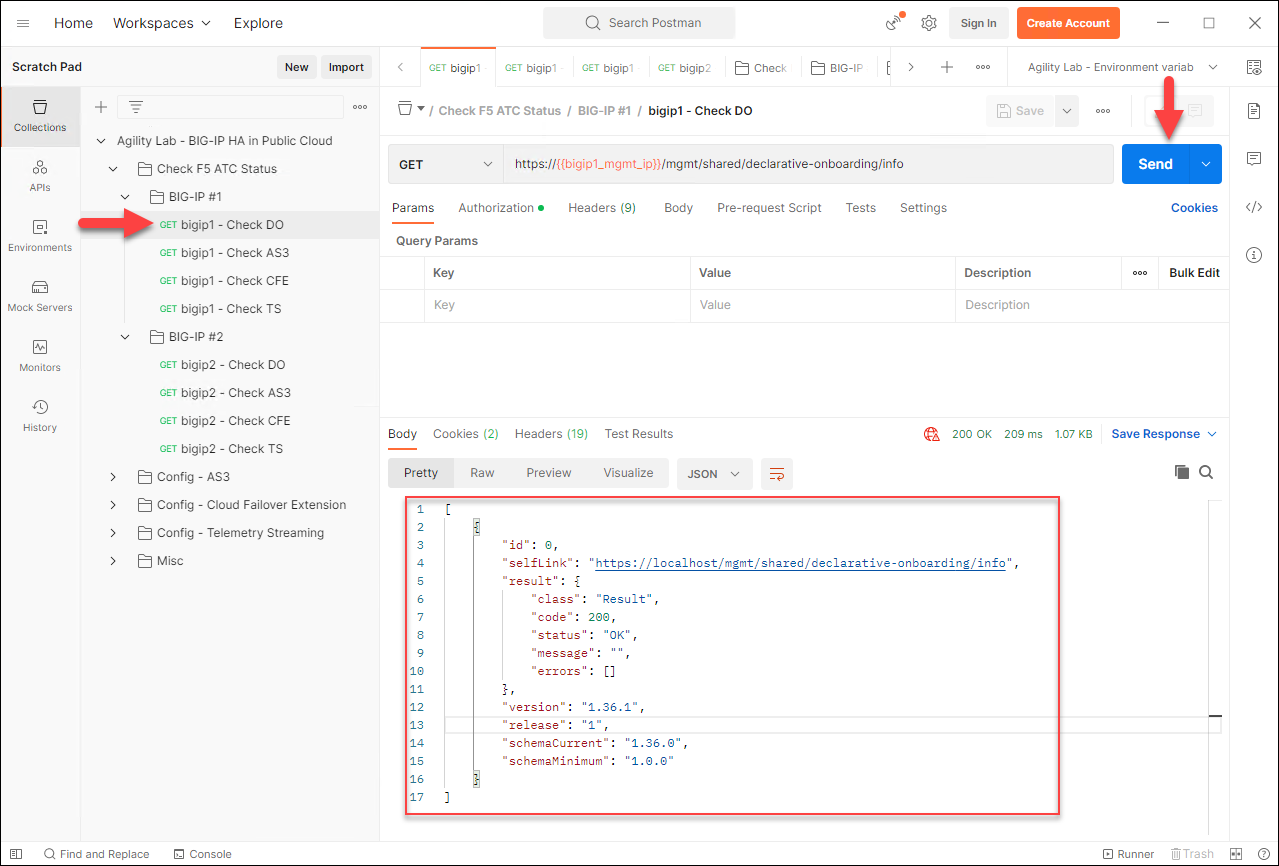
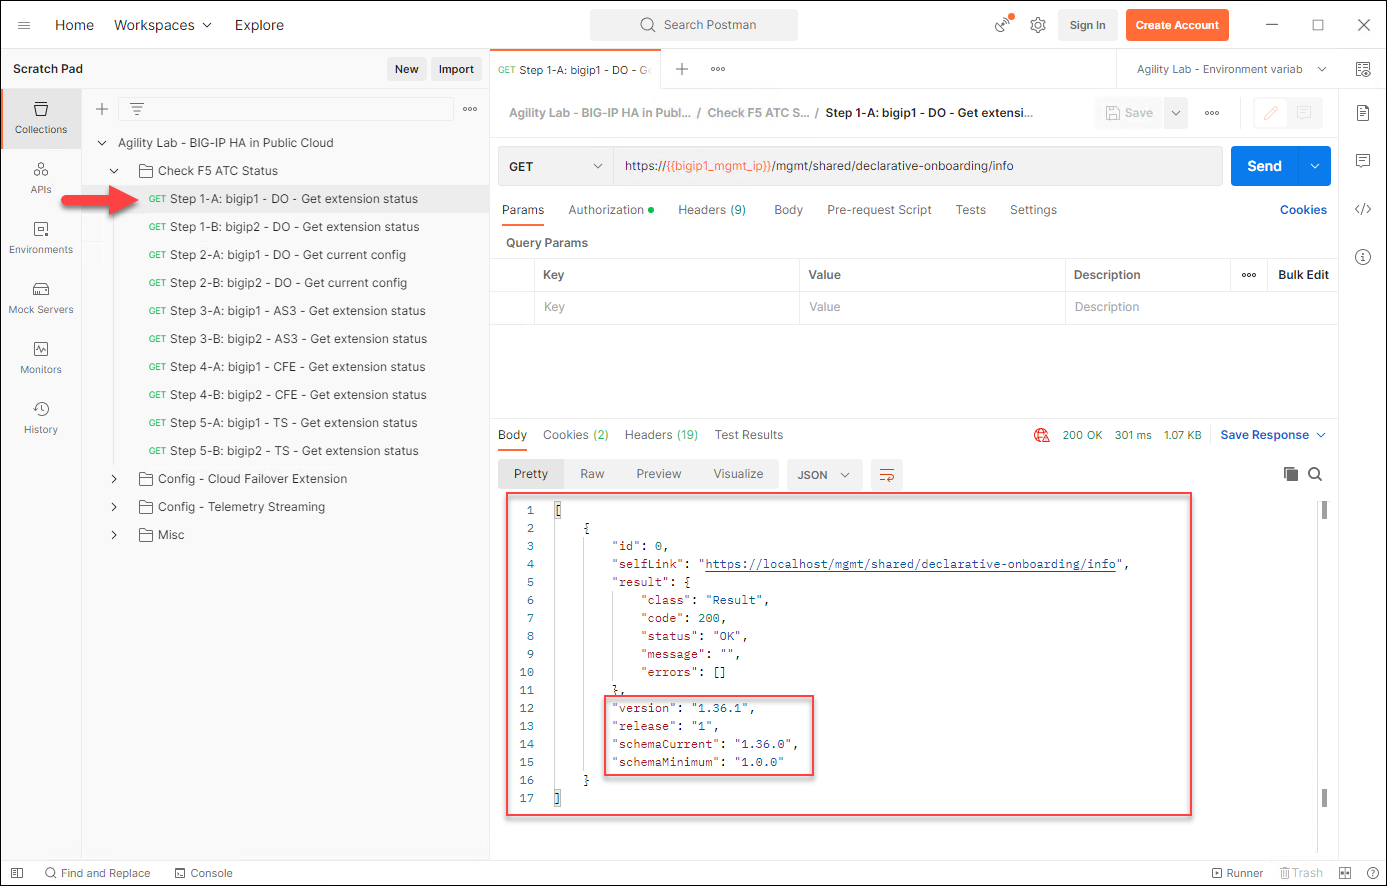
c13-module 2 updates

diff --git a/docs/class13/module2/lab7.rst b/docs/class13/module2/lab7.rst
@@ -79,9 +79,9 @@ Check F5 ATC Extensions
 
 Send API calls from Postman to check the status of the F5 ATC extensions on each BIG-IP.
 
-In the left panel, expand the collection. Navigate to **Check F5 ATC Status** > **BIG-IP #1** > **bigip1 - Check DO**
+In the left panel, expand the collection. Navigate to **Check F5 ATC Status**  > **Step 1-A: bigip1 - DO - Get extension status**
 
-Click on the **Send** button to make an API call to the DO endpoint. You should receive a response (JSON format) containing a status of **OK** and version information.
+Click on the **Send** button to make an API call to the DO endpoint on **BIG-IP #1**. You should receive a response (JSON format) containing a status of **OK** and version information.
 
 
 .. image:: ./images/postman-test-1.png
@@ -89,12 +89,17 @@ Click on the **Send** button to make an API call to the DO endpoint. You should 
 
 |
 
-Send the other API calls for BIG-IP #1 and BIG-IP #2.
-
 .. note::
 
    Only the DO extension will return a **status**. The others will return only version information.
 
 |
+
+Select **Step 1-B** and click on the **Send** button to check the status of **BIG-IP #2**.
+
+Select **Step 2-A** to retrieve the current DO configuration settings for **BIG-IP #1**. Review the response body JSON and note the settings. These should be the same as that defined in the **f5_onboard_3nic_custom.tmpl** template file for **BIG-IP Runtime Init**. They should also correspond to the settings that you reviewed in the BIG-IP TMUI and AWS EC2 (BIG-IP) instances.
+
+Send the remaining 'steps' in the **Check F5 ATC STatus** folder to check the status of the AS3, CFE, and TS extensions.
+
 
 This is the end of the module.
